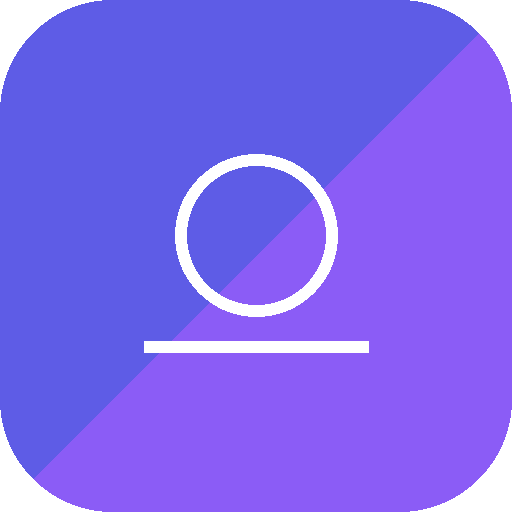
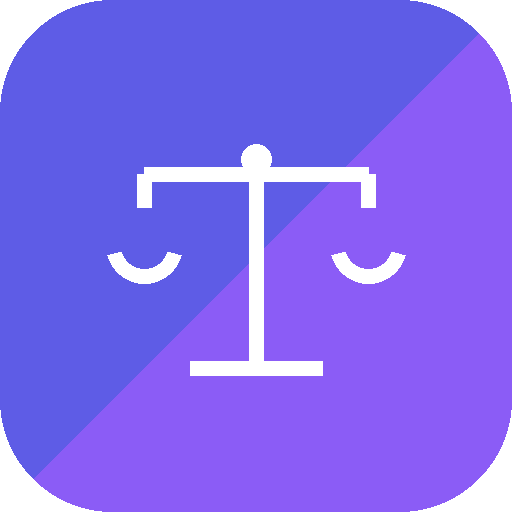
Cambiar icono de lamparita por balanza de dos platillos

Changed region(s): [[0.2188, 0.2812, 0.8125, 0.75]]

diff --git a/index.html b/index.html
@@ -312,7 +312,7 @@
   <!-- ---------- LOGIN ---------- -->
   <div id="auth-screen" hidden>
     <div class="mark">
-      <svg viewBox="0 0 24 24" fill="none" stroke-width="2" stroke-linecap="round" stroke-linejoin="round"><path d="M12 2a5 5 0 0 1 5 5c0 3-2 5-2 8h-6c0-3-2-5-2-8a5 5 0 0 1 5-5z"/><path d="M9 19h6M10 22h4"/></svg>
+      <svg viewBox="0 0 24 24" fill="none" stroke-width="2" stroke-linecap="round" stroke-linejoin="round"><path d="m16 16 3-8 3 8c-.87.65-1.92 1-3 1s-2.13-.35-3-1Z"/><path d="m2 16 3-8 3 8c-.87.65-1.92 1-3 1s-2.13-.35-3-1Z"/><path d="M7 21h10"/><path d="M12 3v18"/><path d="M3 7h2c2 0 5-1 7-2 2 1 5 2 7 2h2"/></svg>
     </div>
     <div>
       <h1>Mi Peso</h1>
@@ -328,7 +328,7 @@
   <!-- ---------- LOADING ---------- -->
   <div id="loading-screen">
     <div class="mark">
-      <svg viewBox="0 0 24 24" fill="none" stroke-width="2" stroke-linecap="round" stroke-linejoin="round"><path d="M12 2a5 5 0 0 1 5 5c0 3-2 5-2 8h-6c0-3-2-5-2-8a5 5 0 0 1 5-5z"/><path d="M9 19h6M10 22h4"/></svg>
+      <svg viewBox="0 0 24 24" fill="none" stroke-width="2" stroke-linecap="round" stroke-linejoin="round"><path d="m16 16 3-8 3 8c-.87.65-1.92 1-3 1s-2.13-.35-3-1Z"/><path d="m2 16 3-8 3 8c-.87.65-1.92 1-3 1s-2.13-.35-3-1Z"/><path d="M7 21h10"/><path d="M12 3v18"/><path d="M3 7h2c2 0 5-1 7-2 2 1 5 2 7 2h2"/></svg>
     </div>
     <div class="spinner"></div>
   </div>
